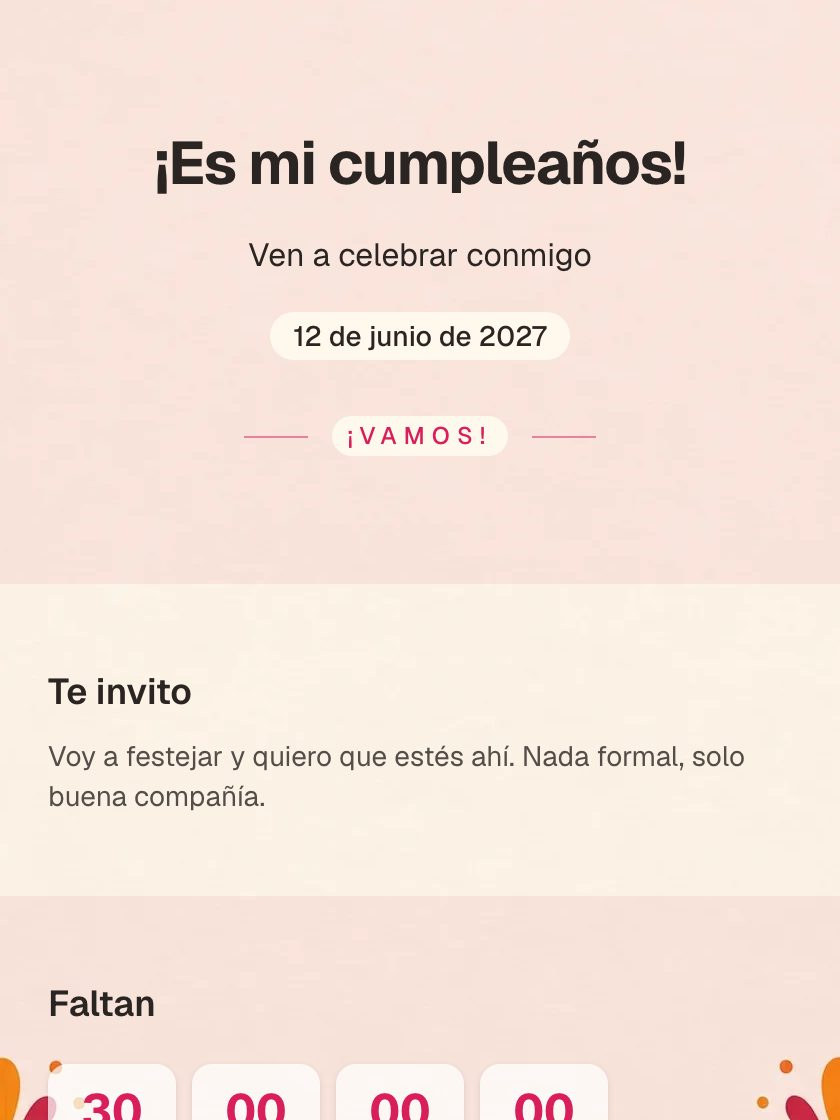
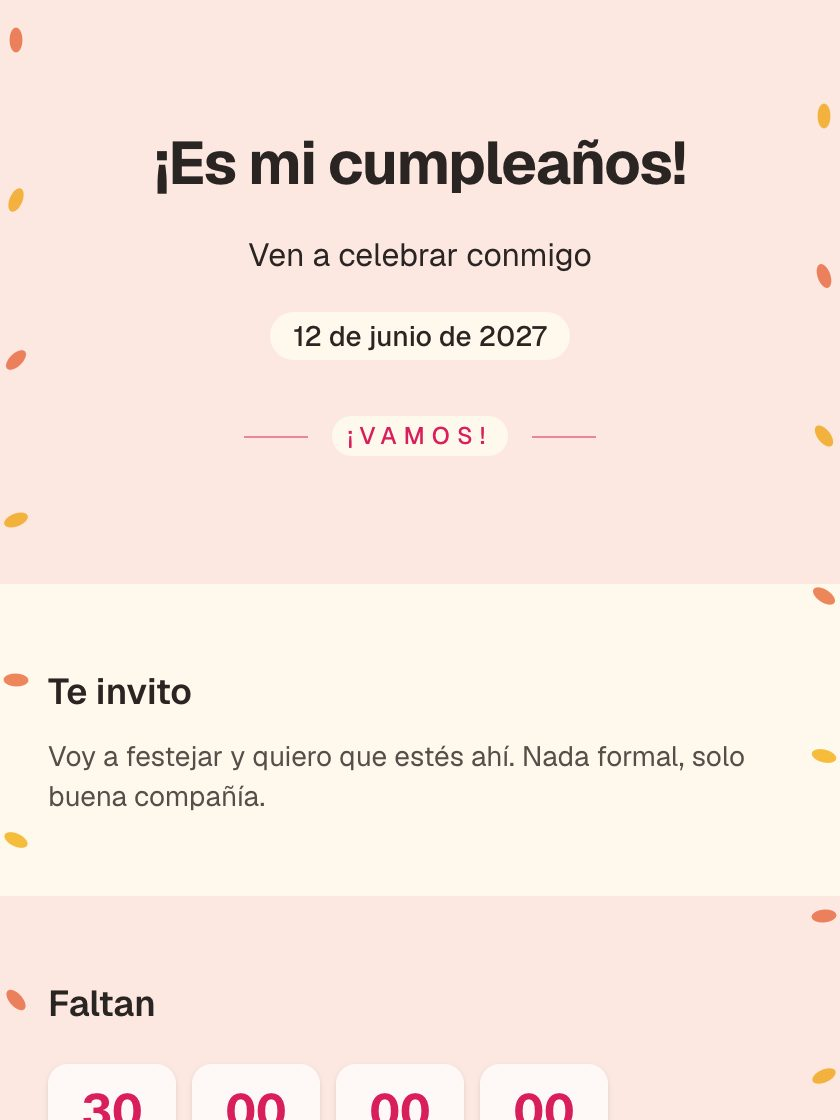
feat(arte): nubes y papel picado rehechos como SVG con el centro libre (la 0067 usa los SVG; slug baby-nubes-luna)

diff --git a/src/lib/theme/arte.ts b/src/lib/theme/arte.ts
@@ -862,8 +862,8 @@ export const ARTE: readonly DireccionArte[] = [
     overlay: 0,
   },
   {
-    clave: "baby-nubes-acuarela",
-    tipo: "ia",
+    clave: "baby-nubes-luna-arte",
+    tipo: "svg",
     nombre: "Nubes y luna",
     eventos: ["Baby shower"],
     polaridad: "oscuro",
@@ -878,8 +878,8 @@ export const ARTE: readonly DireccionArte[] = [
     overlay: 0,
   },
   {
-    clave: "fiesta-papel-picado",
-    tipo: "ia",
+    clave: "fiesta-papel-picado-arte",
+    tipo: "svg",
     nombre: "Papel picado y cempasúchil",
     eventos: ["Cumpleaños"],
     polaridad: "oscuro",

diff --git a/src/lib/templates/estilos.ts b/src/lib/templates/estilos.ts
@@ -32,7 +32,7 @@ const D: EstiloClave = "divertido";
 export const ESTILO_POR_SLUG: Readonly<Record<string, EstiloClave>> = {
   // Baby shower
   "baby-nube-de-algodon": N,
-  "baby-nubes-acuarela": N,
+  "baby-nubes-luna": N,
   "baby-punto-y-flor": N,
   "baby-shower": D,
   "baby-shower-animalitos": D,

diff --git a/src/lib/invitations/template-preview.ts b/src/lib/invitations/template-preview.ts
@@ -67,4 +67,4 @@ export const ESCALA_CAPTURA = 2;
  * optimizador y la del navegador, y evita tener que renombrar 50 archivos o
  * volver a escribir 50 URLs en la BD en cada regeneración.
  */
-export const REVISION_MINIATURAS = "202610270123";
+export const REVISION_MINIATURAS = "202610270132";

diff --git a/docs/auditoria-2026-10/18-validacion-de-diseno.md b/docs/auditoria-2026-10/18-validacion-de-diseno.md
@@ -96,7 +96,7 @@ Hechos en la rama `plan/90-dias`, sin fusionar.
 
 ## 9. Las cinco ilustraciones de ChatGPT/Gemini, montadas y medidas (26 oct 2026)
 
-Se montaron como **cinco plantillas nuevas** (no reemplazos), clonadas de otras con su mismo texto de ejemplo: `boda-acuarela-eucalipto`, `xv-acuarela-peonias`, `baby-nubes-acuarela`, `xv-noche-estrellada` y `cumpleanos-fiesta-mexicana`. La migración `0067` las inserta (idempotente, sin cambiar el esquema); **está aplicada en la base local y NO en producción**. Si no convencen, se desactivan con `is_active = false`. Registradas en `src/lib/theme/arte.ts` con un tipo nuevo (`ia`, `/arte/ia/*.webp`) y en `public/arte/PROCEDENCIA.md`.
+Se montaron como **cinco plantillas nuevas** (no reemplazos), clonadas de otras con su mismo texto de ejemplo: `boda-acuarela-eucalipto`, `xv-acuarela-peonias`, `baby-nubes-luna`, `xv-noche-estrellada` y `cumpleanos-fiesta-mexicana`. La migración `0067` las inserta (idempotente, sin cambiar el esquema); **está aplicada en la base local y NO en producción**. Si no convencen, se desactivan con `is_active = false`. Registradas en `src/lib/theme/arte.ts` con un tipo nuevo (`ia`, `/arte/ia/*.webp`) y en `public/arte/PROCEDENCIA.md`.
 
 **Como imagen:** las cinco cumplen. Centro vacío (desviación < 2 en el 60 % × 45 % central, 0 % de bordes), sin texto, caras ni marcas (revisadas a ojo) y de 18 a 86 KB (techo de 90 KB) después de recortar a 7:15 y pasar a WebP.
 
@@ -116,7 +116,7 @@ Se montaron como **cinco plantillas nuevas** (no reemplazos), clonadas de otras 
 
 **Miniaturas del catálogo:** se ven recortadas (la miniatura es 3:4 y solo muestra la franja central del arte), así que casi no se nota el arte en la galería; en el teléfono sí. Es el mismo recorte que ya documenta `PROCEDENCIA.md`. Para que el catálogo las venda hará falta una miniatura capturada a 390 × 844.
 
-**Decisión tuya:** (a) regenerar las 5 con la ronda 2 y volver a medir; (b) quedarte con `baby-nubes-acuarela` y `boda-acuarela-eucalipto`, que son legibles hoy; (c) descartar. Recomiendo (a) para las cinco.
+**Decisión tuya:** (a) regenerar las 5 con la ronda 2 y volver a medir; (b) quedarte con `baby-nubes-luna` y `boda-acuarela-eucalipto`, que son legibles hoy; (c) descartar. Recomiendo (a) para las cinco.
 
 ## 10. Puntos 4 y 5 del plan, y la imagen de la ronda 2 (26 oct 2026)
 
@@ -181,3 +181,7 @@ Quedan registradas en `src/lib/theme/arte.ts` (polaridad `claro`, velo 0) y en `
 - adorno bajo el texto: 0 en `xv-noche-azul` y `corporativo-negro-acento`; en `boda-bosque-champan`, 1 sospecha de 4.8 % en «Jardín Las Flores» solo a 320 px (una hoja roza la primera letra en la pantalla más angosta). Una primera versión tenía las ramitas pegadas al texto alineado a la izquierda; se corrigió en la misma sesión.
 
 **Nota de gusto, para que la mires:** a ojo se ven sobrias y de buen nivel, pero son adornos geométricos hechos a código, no ilustraciones; si quieres un acabado de acuarela o foil, es lo que se pide con los prompts de [17](17-prompts-de-arte.md). No se añadieron prompts para estas tres porque no hicieron falta imágenes.
+
+## 13. Nubes y papel picado rehechos como SVG (2026-10-26)
+
+Las versiones IA de `baby-nubes-luna` (antes `baby-nubes-acuarela`) y `cumpleanos-fiesta-mexicana` chocaban con el texto en móvil, así que se dibujaron como SVG con el centro libre: `baby-nubes-luna-arte.svg` (4 KB) y `fiesta-papel-picado-arte.svg` (25 KB). Primera versión del papel picado: la guirnalda llegaba a y≈84 y rozaba el título (12.9 % de borde a 390 px); se redujo a y≈58 y las flores de abajo se recortaron contra la esquina. Medido tras el arreglo en 320 y 390 px: adorno bajo el texto 0 y 0, contraste AA sin textos por debajo, choque de texto 0 en nubes y 4 en fiesta mexicana (los mismos 4 que la plantilla de origen `cumpleanos-sencillo`, heredados, no del arte). Peonías y noche de gala siguen pendientes de regenerar con la ronda 2 del doc 17.

diff --git a/public/arte/PROCEDENCIA.md b/public/arte/PROCEDENCIA.md
@@ -370,9 +370,9 @@ vacío medido (desviación < 2 en el 60 % × 45 % central, 0 % de bordes).
 |---|---|---|
 | `boda-acuarela-eucalipto.webp` | `boda-acuarela-eucalipto` | 41 KB |
 | `xv-acuarela-peonias.webp` | `xv-acuarela-peonias` | 84 KB |
-| `baby-nubes-acuarela.webp` | `baby-nubes-acuarela` | 18 KB |
 | `xv-noche-estrellada.webp` | `xv-noche-estrellada` | 63 KB |
-| `fiesta-papel-picado.webp` | `cumpleanos-fiesta-mexicana` | 70 KB |
 
-Son imágenes: **no se recolorean**. Lo medido al montarlas en las plantillas nuevas está en
+Nubes y luna (`baby-nubes-luna-arte.svg`, 4 KB) y papel picado (`fiesta-papel-picado-arte.svg`, 24 KB) se rehicieron como SVG dibujado a mano (sin procedencia externa) porque las versiones IA chocaban con el texto en móvil; sirven a `baby-nubes-luna` y `cumpleanos-fiesta-mexicana`.
+
+Las tres WebP de la tabla son imágenes: **no se recolorean**. Lo medido al montarlas en las plantillas nuevas está en
 `docs/auditoria-2026-10/18-validacion-de-diseno.md` (sección 9).
